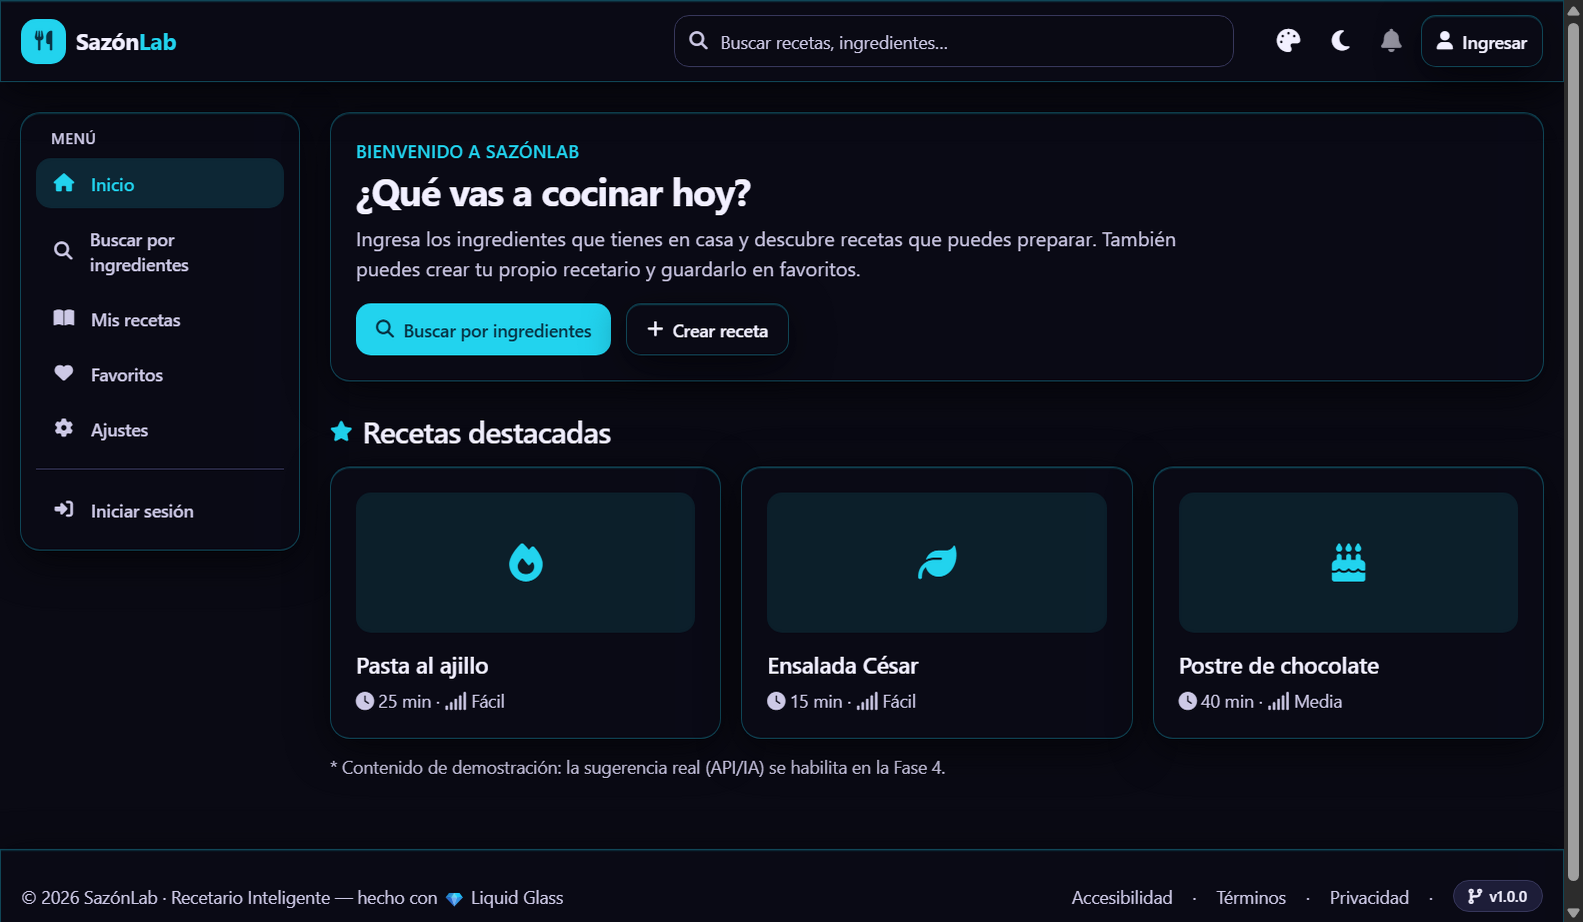
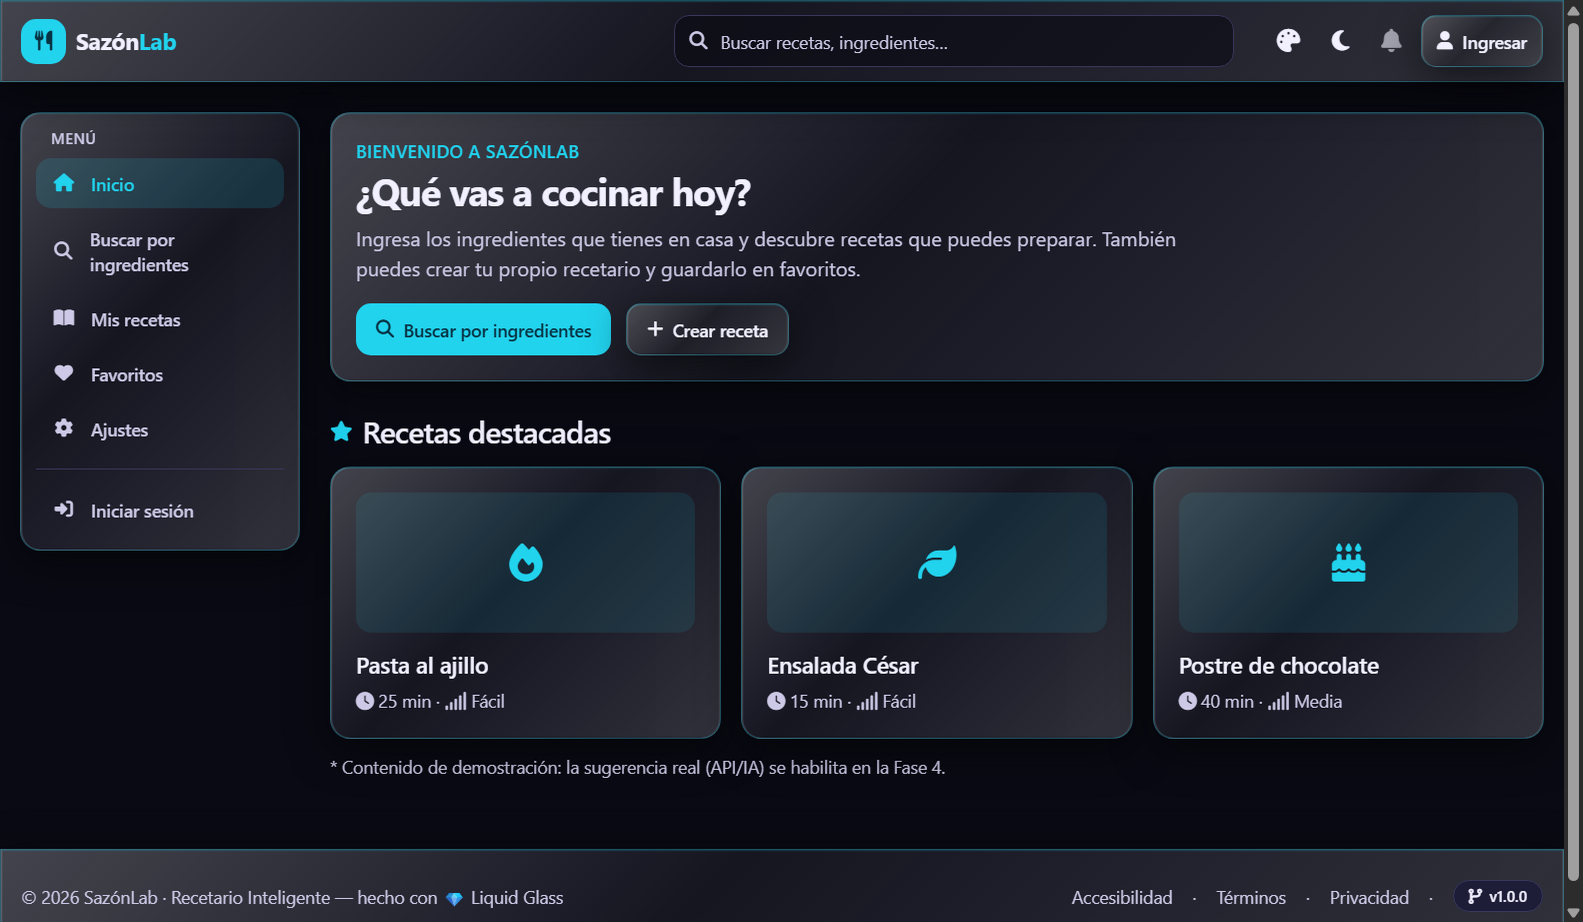
Fix revision: temas/alto-contraste en DEV (selector html[data-theme][data-mode] + orden de imports) + Liquid Glass estilo iPhone (brillo especular, refraccion inset, blur 24px) + script verificar:temas

diff --git a/landing/src/styles/index.css b/landing/src/styles/index.css
@@ -19,6 +19,7 @@
   --glass: rgba(255, 255, 255, 0.55);
   --glass-border: rgba(255, 255, 255, 0.75);
   --glass-fallback: #eef4f9;
+  --glass-highlight: rgba(255, 255, 255, 0.35);
   --shadow-glass: 0 8px 32px rgba(15, 23, 42, 0.12);
   --background-gradient: linear-gradient(135deg, #e0f2fe 0%, #f2f7fb 45%, #eef2ff 100%);
 }
@@ -61,11 +62,24 @@ h3 {
 
 @layer components {
   .glass {
-    background: var(--glass);
+    /* Liquid Glass estilo iOS: brillo especular + refracción en bordes */
+    background:
+      linear-gradient(
+        135deg,
+        rgba(255, 255, 255, 0.24) 0%,
+        rgba(255, 255, 255, 0.05) 45%,
+        rgba(255, 255, 255, 0.16) 100%
+      ),
+      var(--glass);
     border: 1px solid var(--glass-border);
-    box-shadow: var(--shadow-glass);
-    backdrop-filter: blur(16px) saturate(1.5);
-    -webkit-backdrop-filter: blur(16px) saturate(1.5);
+    box-shadow:
+      var(--shadow-glass),
+      inset 0 1px 0 var(--glass-highlight),
+      inset 0 -1px 0 rgb(0 0 0 / 0.08),
+      inset 1px 0 0 rgb(255 255 255 / 0.16),
+      inset -1px 0 0 rgb(255 255 255 / 0.1);
+    backdrop-filter: blur(24px) saturate(1.8);
+    -webkit-backdrop-filter: blur(24px) saturate(1.8);
   }
 
   @supports not ((backdrop-filter: blur(4px)) or (-webkit-backdrop-filter: blur(4px))) {

diff --git a/app/src/styles/index.css b/app/src/styles/index.css
@@ -113,14 +113,25 @@
    ------------------------------------------------------------ */
 @layer components {
   .glass {
-    background: var(--glass);
+    /* Liquid Glass estilo iOS: capa de brillo especular sobre el vidrio */
+    background:
+      linear-gradient(
+        135deg,
+        rgba(255, 255, 255, 0.24) 0%,
+        rgba(255, 255, 255, 0.05) 45%,
+        rgba(255, 255, 255, 0.16) 100%
+      ),
+      var(--glass);
     border: 1px solid var(--glass-border);
-    /* Sello Liquid Glass: sombra exterior + brillo interior (inset highlight) */
+    /* Refracción: brillo superior + borde inferior oscuro + costados luminosos */
     box-shadow:
       var(--shadow-glass),
-      inset 0 1px 0 var(--glass-highlight);
-    backdrop-filter: blur(16px) saturate(1.5);
-    -webkit-backdrop-filter: blur(16px) saturate(1.5);
+      inset 0 1px 0 var(--glass-highlight),
+      inset 0 -1px 0 rgb(0 0 0 / 0.08),
+      inset 1px 0 0 rgb(255 255 255 / 0.16),
+      inset -1px 0 0 rgb(255 255 255 / 0.1);
+    backdrop-filter: blur(24px) saturate(1.8);
+    -webkit-backdrop-filter: blur(24px) saturate(1.8);
   }
 
   /* Fallback si el navegador no soporta backdrop-filter (EX-01 CU-13) */

diff --git a/app/src/main.jsx b/app/src/main.jsx
@@ -2,8 +2,10 @@ import { StrictMode } from 'react';
 import { createRoot } from 'react-dom/client';
 // HashRouter: imprescindible para que funcione desde file:// en Electron (.exe)
 import { HashRouter } from 'react-router-dom';
-import App from './App.jsx';
+// El CSS se importa ANTES que App para que el orden de inyección sea:
+// tokens base → variables de tema (aunque además el tema gana por especificidad)
 import './styles/index.css';
+import App from './App.jsx';
 import '@fortawesome/fontawesome-free/css/all.min.css';
 import 'sweetalert2/dist/sweetalert2.min.css';
 

diff --git a/app/src/themes/palettes.js b/app/src/themes/palettes.js
@@ -590,8 +590,10 @@ export function buildThemeVars(themeId, mode) {
   const p = getPalette(themeId, mode);
   const dark = mode === 'oscuro' || mode === 'alto-contraste';
   const rgb = (hex) => hexToRgb(hex).join(' ');
+  // Selector con especificidad 0-1-2: gana siempre a :root y [data-mode]
+  // de index.css, sin importar el orden de inyección del CSS (dev vs prod).
   const css = `
-:root {
+html[data-theme][data-mode] {
   color-scheme: ${dark ? 'dark' : 'light'};
   --background: ${rgb(p.bg)};
   --foreground: ${rgb(p.fg)};

diff --git a/docs/informes/fase-2.md b/docs/informes/fase-2.md
@@ -78,6 +78,8 @@ docs/CHANGELOG.md                          # entrada Fase 2
 | 5.3 | `capturePage` lanzaba `UnknownVizError` | `app.disableHardwareAcceleration()` + reintento con ventana visible |
 | 5.4 | Galería salía en blanco: el CSS se emitía como **texto** (faltaba envolver en `<style>`) | `<style>${...}</style>` + ventana de 1320px de alto |
 | 5.5 | Falsa alarma visual: la vista previa de la imagen mostraba celdas claras | Verificación por **decodificación de píxeles del PNG** (script propio con zlib): `rgb(6,12,15)` y `rgb(56,189,248)` confirman fondos oscuros correctos — 18.631 px oscuros vs 11.839 claros |
+| 5.6 | **Reportado en revisión (10/11):** en el servidor DEV los temas y el alto contraste no se aplicaban — Vite inyecta `index.css` *después* del `<style id="theme-vars">` (orden de imports), y sus reglas base pisaban las variables de tema | Doble fix: selector `html[data-theme][data-mode]` (especificidad 0-1-2, gana sin importar el orden) + import del CSS antes que `App` en `main.jsx`. **Verificado en dev con `npm run verificar:temas`: 4/4 combos con colores exactos** |
+| 5.7 | **Reportado en revisión:** el glass no tenía el aspecto Liquid Glass de iPhone | `.glass` rediseñado: capa de brillo especular en degradado, 4 sombras `inset` de refracción (borde superior luminoso, inferior oscuro, costados), `blur(24px) saturate(1.8)` (antes 16/1.5). Aplicado también en la landing |
 
 ---
 

diff --git a/docs/CHANGELOG.md b/docs/CHANGELOG.md
@@ -63,6 +63,12 @@ Registro de cambios por fase. Formato basado en [Keep a Changelog](https://keepa
 - `UnknownVizError` en `capturePage` → `disableHardwareAcceleration` + reintento visible.
 - Galería en blanco → CSS emitido como texto, faltaba envolver en `<style>`.
 - Falsa alarma visual de la galería → verificación por decodificación de píxeles PNG (colores exactos confirmados).
+- **(revisión 10/11)** Temas/alto-contraste no aplicaban en DEV → selector `html[data-theme][data-mode]` (gana por especificidad sin importar el orden de inyección) + import de CSS antes que `App`; verificado con `npm run verificar:temas` (4/4 ✓).
+- **(revisión 10/11)** Glass sin estilo iPhone → `.glass` con brillo especular en degradado, refracción inset en 4 bordes y `blur(24px) saturate(1.8)` (app + landing).
+
+### Nuevos scripts
+- `npm run verificar:temas` → valida en el dev server que los temas se aplican (computed style).
+- `npm run capturas` → galería + capturas de la app con Electron.
 
 ---
 
